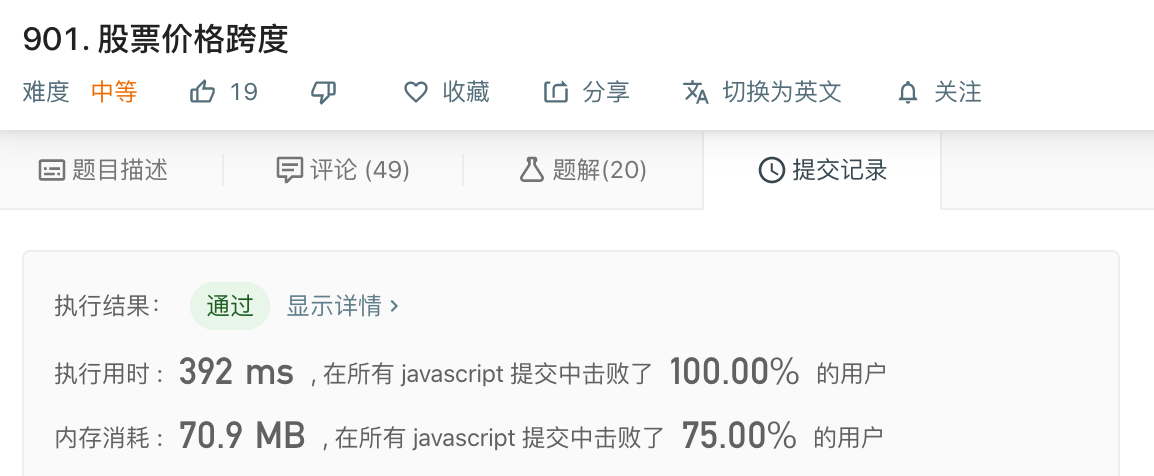
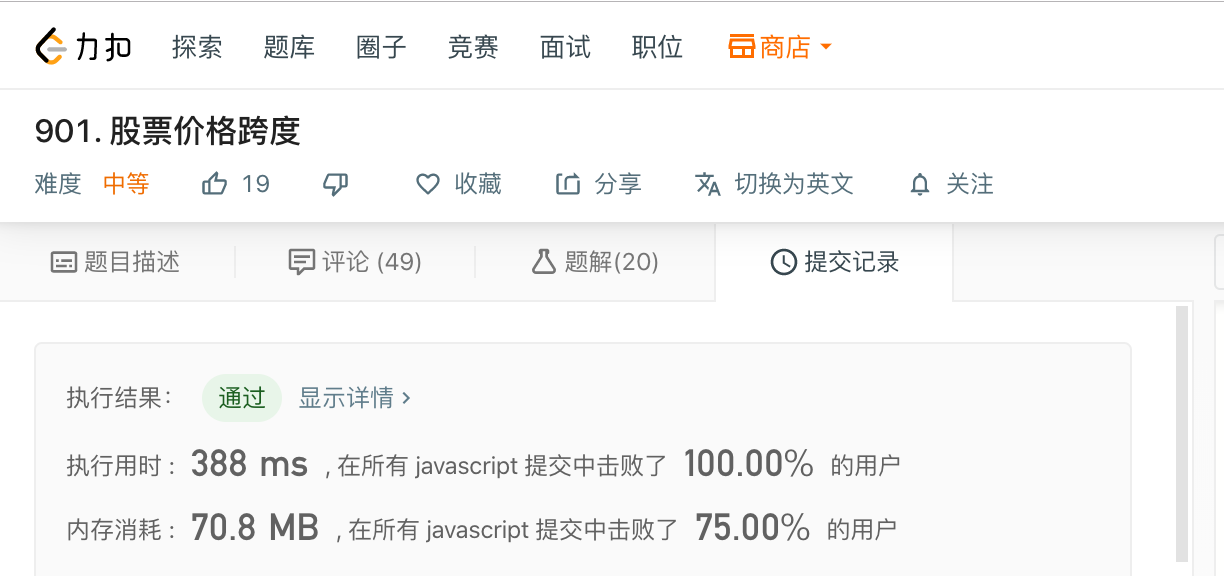
2019.12.19 surpass my first answer

diff --git a/2019.12.19/Answer_Javascript.js b/2019.12.19/Answer_Javascript.js
@@ -1,25 +1,23 @@
 class StockSpanner {
     constructor() {
         this.data = [];
-        this.previousValue = 0;
     }
 
     getCount(current) {
-        let max = 1;
-        let index = this.data.length - 1;
-        let flag = true;
-        if (index >= 0) {
-            while (flag) {
+        if (this.data.length - 1 >= 0) {
+            let max = 1;
+            let index = this.data.length - 1;
+            while (true) {
                 if (index >= 0 && current >= this.data[index].price) {
                     max += this.data[index].count;
                     index -= this.data[index].count;
                 } else {
-                    flag = true;
                     break;
                 }
             }
+            return max;
         }
-        return max;
+        return 1;
     }
 
     next(price) {
